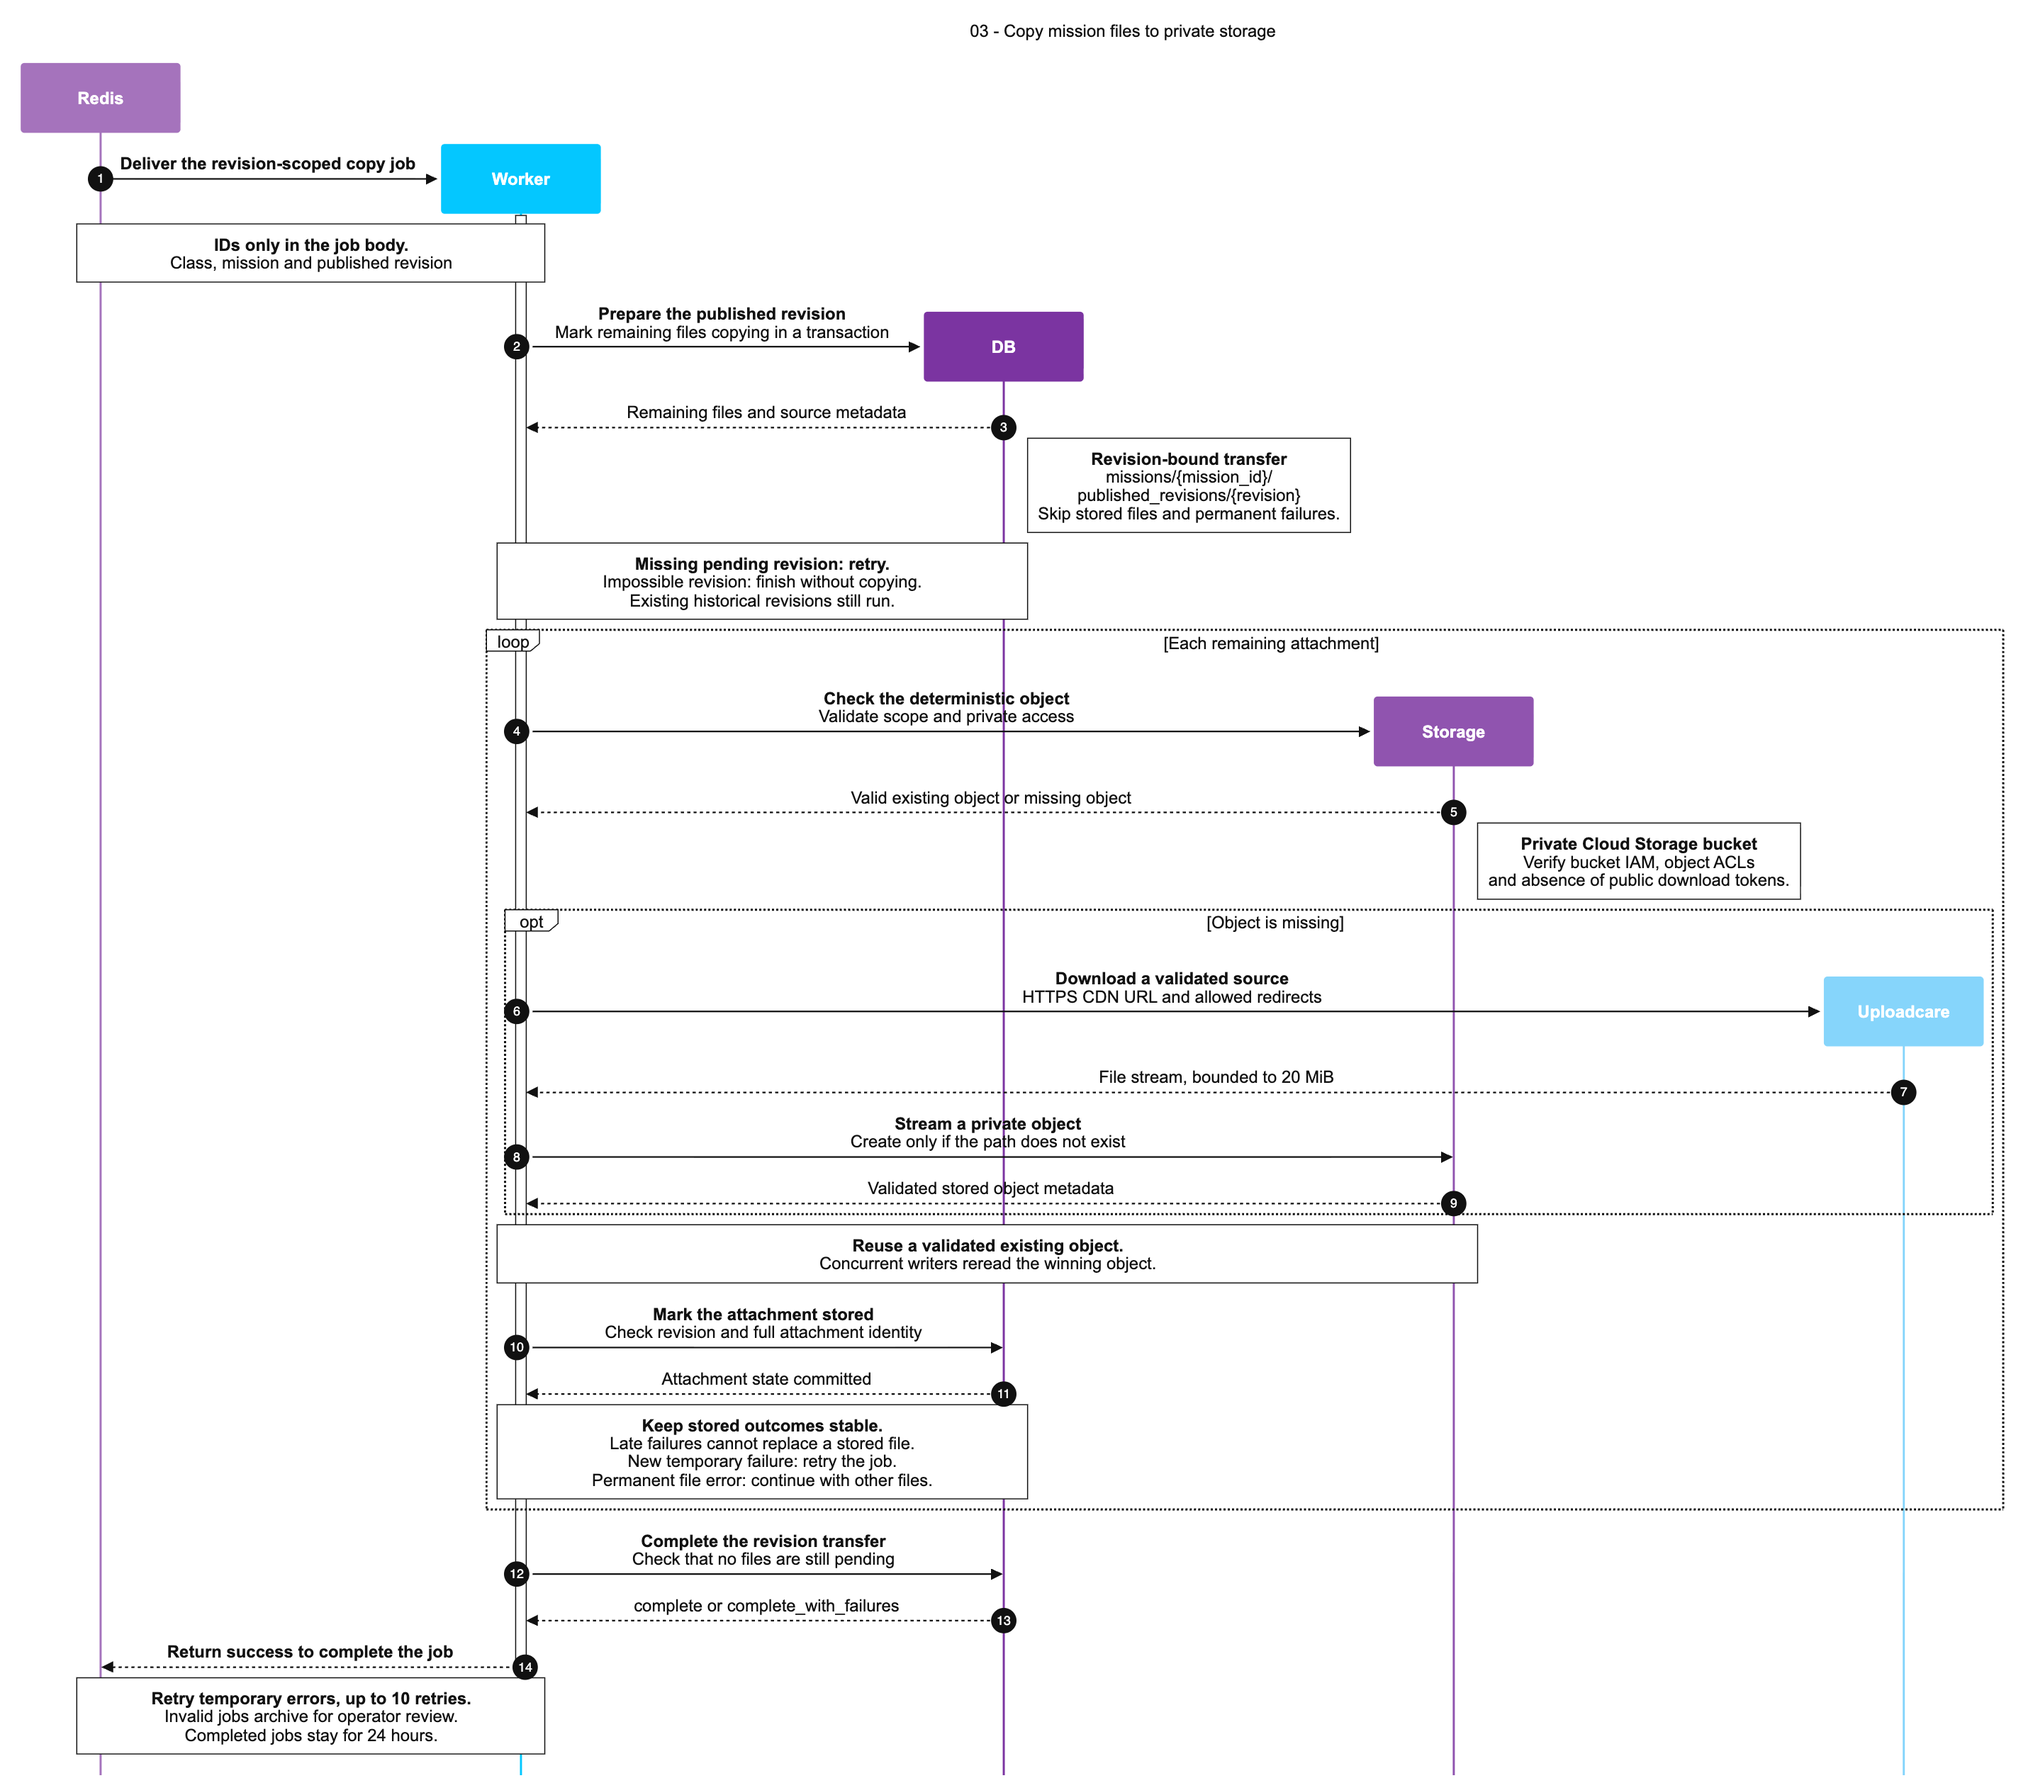
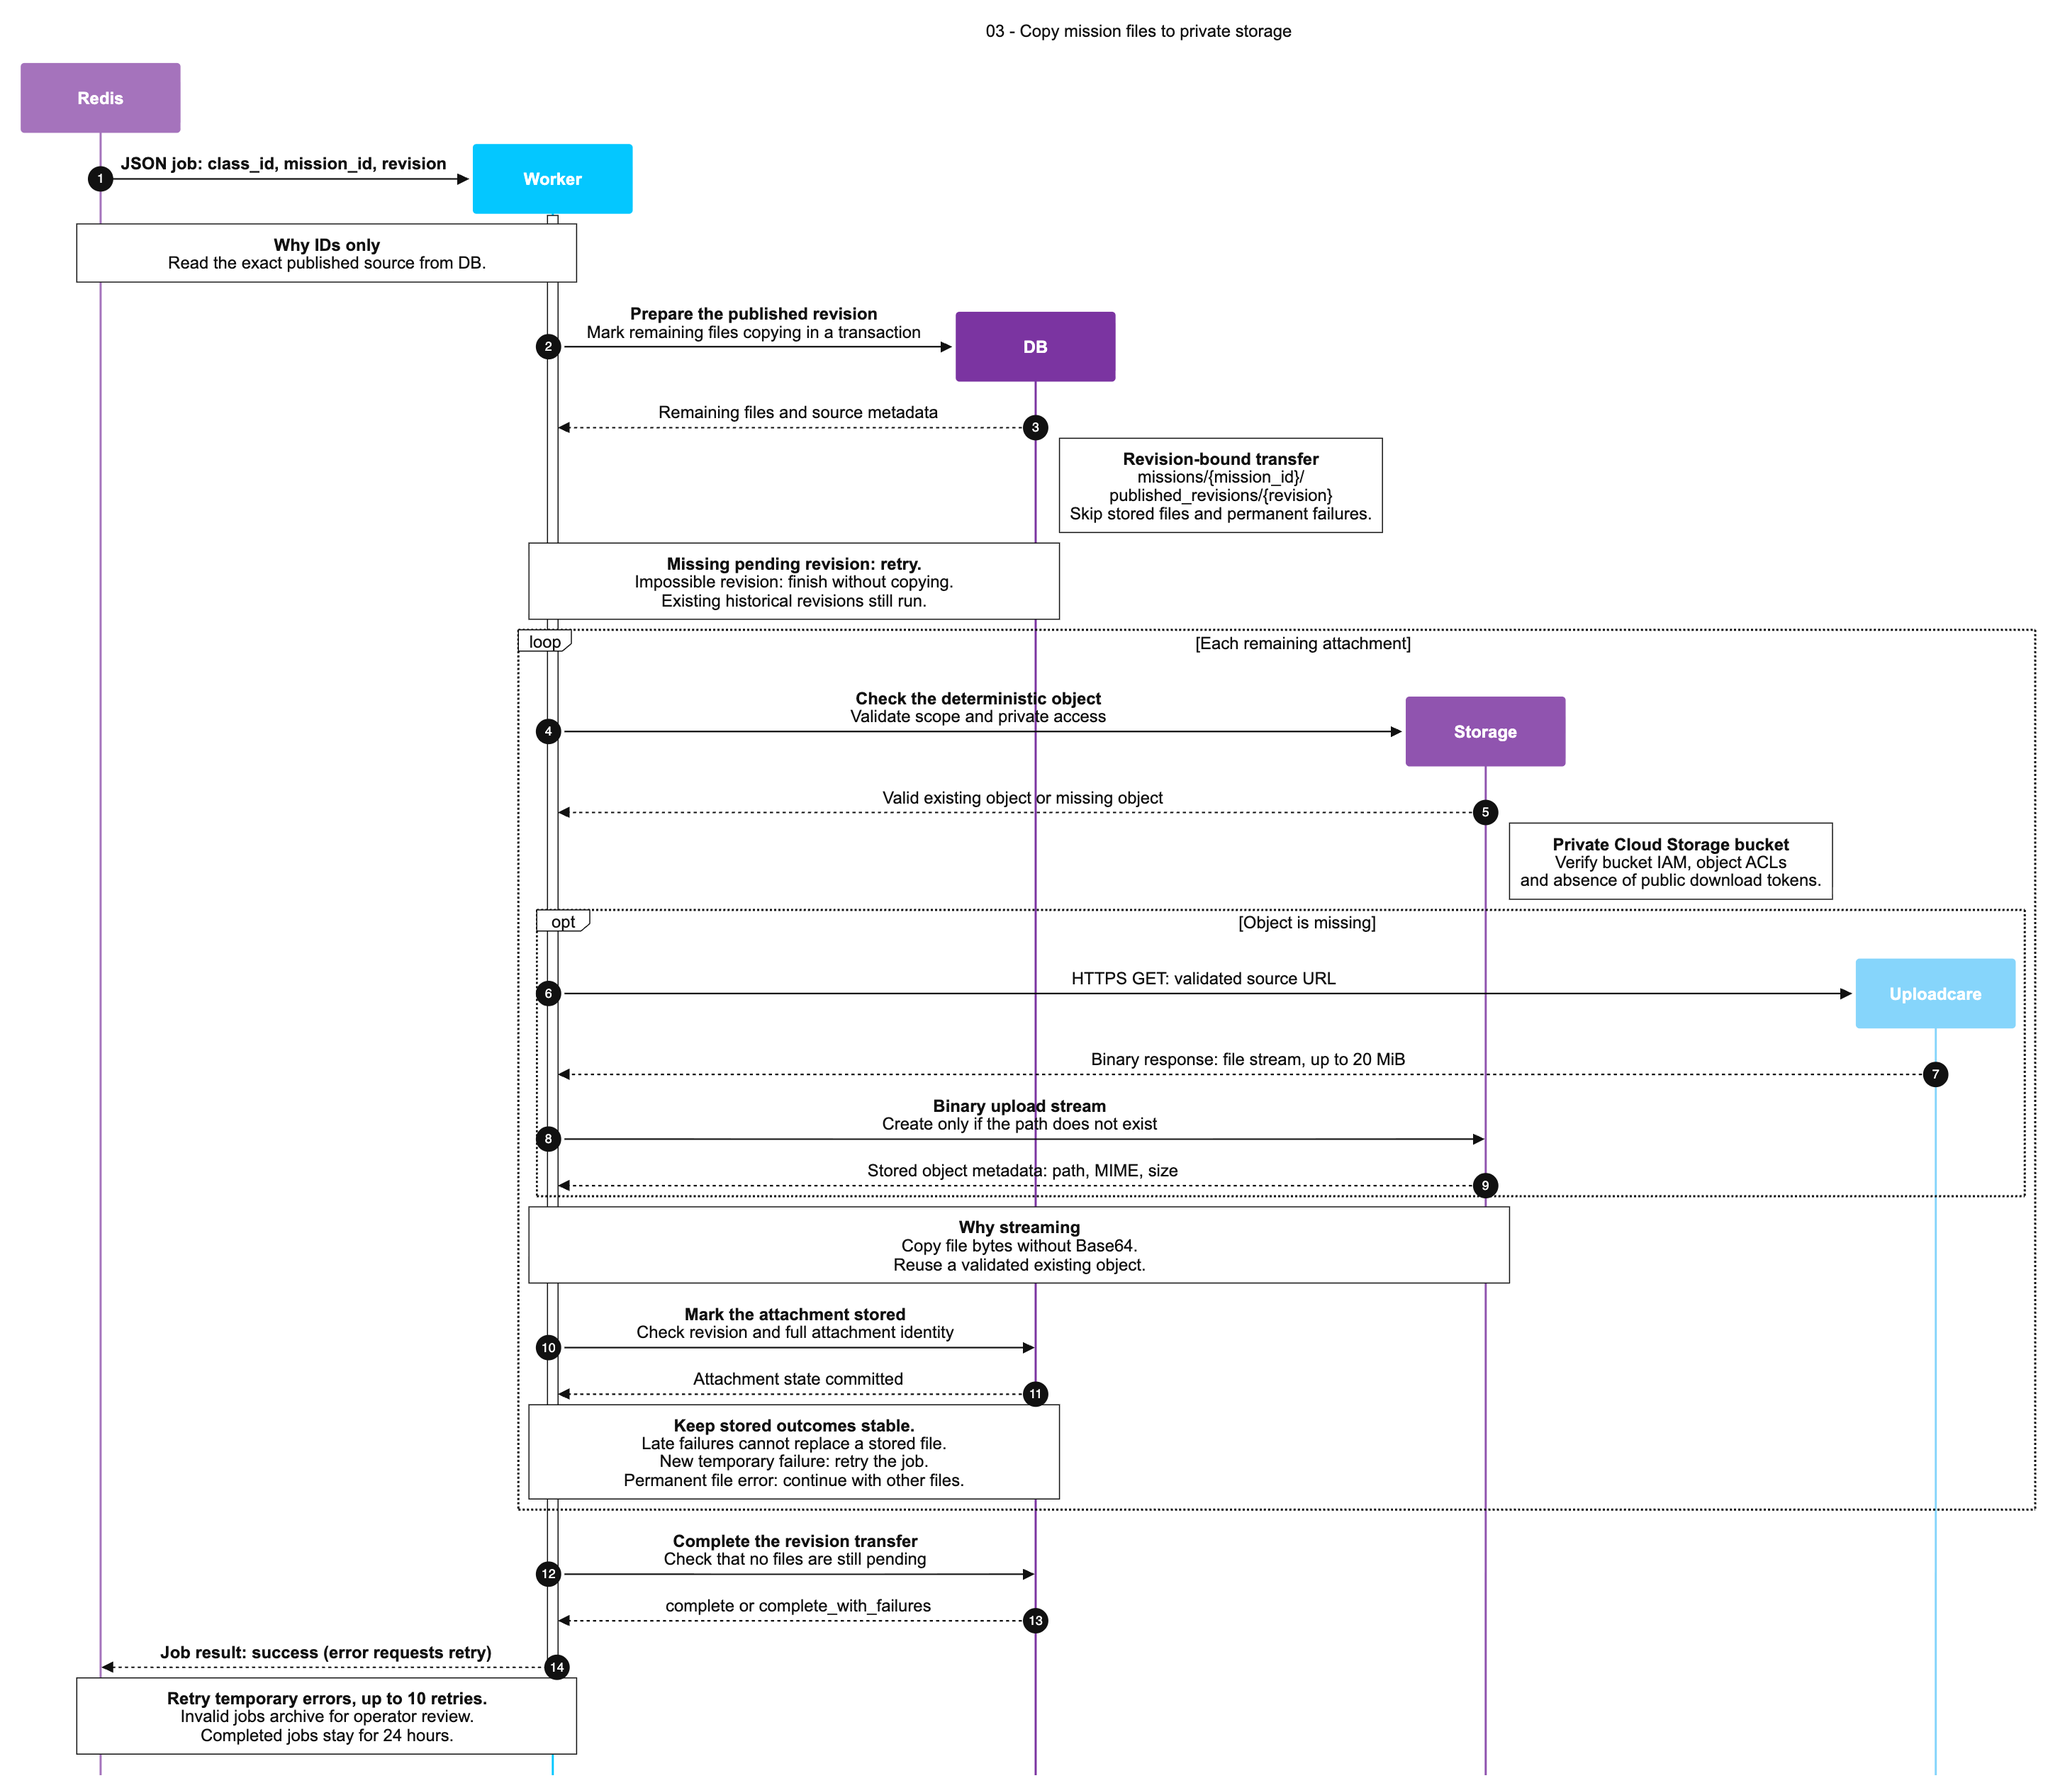
docs: explain request and response formats in mission steps

diff --git a/assets/diagrams/steps/01-mission-draft/README.md b/assets/diagrams/steps/01-mission-draft/README.md
@@ -2,6 +2,15 @@
 
 [Open the full PNG](diagram.png) · [Mermaid source](SEQUENCE.txt)
 
+## Request and response
+
+| Request | Response | Why |
+| --- | --- | --- |
+| Teacher → Uploadcare: multipart file upload. | JSON: UUID, CDN URL, name, MIME, size. | Upload once; pass file references. |
+| Teacher → API: JSON goal + attachment metadata; `POST /teacher-classes/{class}/missions/preview/stream`. | SSE: JSON progress events + saved mission preview. | Show progress while the LLM works; no Base64 in this request. |
+| API → LLM: prompt + file in `inlineData` (MIME + Base64 bytes). | JSON: short attachment summary. | Carry original file bytes inside JSON. |
+| API → LLM: goal + attachment summaries in the prompt. | JSON: questions, answers, explanations, stages. | Generate the draft without sending the full file again. |
+
 The teacher uploads **optional material** to Uploadcare. The API **checks access**, downloads supported files, requests short LLM summaries, generates the mission, and **saves the draft in Firestore**. **Action 13** returns the preview for teacher review.
 
 All participants use normal boxes, white labels, and a blue-to-purple palette on a white background. Boxes appear at first use. The `create participant` commands control this static layout; the services already exist. **Without attachments**, the API skips file summaries and still generates a draft.

diff --git a/assets/diagrams/steps/05-learning-memory/README.md b/assets/diagrams/steps/05-learning-memory/README.md
@@ -2,6 +2,14 @@
 
 [Open the full PNG](diagram.png) · [Mermaid source](SEQUENCE.txt)
 
+## Request and response
+
+| Request | Response | Why |
+| --- | --- | --- |
+| Student → API: JSON `status: completed`, snapshot + attempt scope; `POST /users/student-learning`. | JSON `attempt` with confirmed status and resume state. | Show the reward after server confirmation, before AI insights are ready. |
+| API → Redis → Worker: JSON student/attempt IDs + expected versions and dispatch generation. | Job success or retryable error. | Finalize saved evidence asynchronously; no PDF or answer log in the job. |
+| Worker → LLM: bounded events, progress and previous memory in the prompt. | JSON: private trace, strengths, needs and next adaptation. | Build compact memory from observed work; keep it server-side. |
+
 After [step 04](../04-quiz-play/README.md), the browser flushes pending tutor evidence and requests completion. The API confirms completion from **server-recorded accepted answers**. A finalizer then builds a private learning trace and replaces eligible student memory with a **compact summary**. Action 15 completes the queued delivery.
 
 ## Completion and readiness

diff --git a/assets/diagrams/steps/06-class-insights/README.md b/assets/diagrams/steps/06-class-insights/README.md
@@ -2,6 +2,14 @@
 
 [Open the full PNG](diagram.png) · [Mermaid source](SEQUENCE.txt)
 
+## Request and response
+
+| Request | Response | Why |
+| --- | --- | --- |
+| Redis → Worker: JSON class ID + source/dispatch generations. | Job success or retryable error. | Refresh only the intended evidence version. |
+| Worker → LLM: up to 100 finalized student evidence records in the prompt. | JSON: strength/need clusters + next adaptation. | Summarize class evidence without resending files or full histories. |
+| Teacher → API: authenticated `GET /dashboard/overview/page?class_id=…&cursor=…`. | JSON: visible-page students, progress, insights and next cursor. | Refresh the authorized page; summary changes only trigger a new read. |
+
 After [step 05](../05-learning-memory/README.md), a durable class-refresh intent identifies the evidence generation to summarize. The worker builds **bounded class memory** and saves it only while its owner, lease, tenant, and source generation still match. The summary change invalidates the open teacher dashboard. Action 15 returns the authorized overview for the visible student page.
 
 ## Refresh and memory bounds

diff --git a/assets/diagrams/steps/04-quiz-play/README.md b/assets/diagrams/steps/04-quiz-play/README.md
@@ -2,6 +2,14 @@
 
 [Open the full PNG](diagram.png) · [Mermaid source](SEQUENCE.txt)
 
+## Request and response
+
+| Request | Response | Why |
+| --- | --- | --- |
+| Student → API: JSON `event_id`, question, response, attempt + revision; `POST /users/student-tutor-turn`. | JSON `turn`: Mia message, steps and next action. | Keep retries stable and return only student-safe feedback. |
+| API → LLM: pinned question + response + bounded memory and knowledge chunks in the prompt. | JSON: structured tutor feedback. | Ground feedback in recorded context; do not resend the PDF. |
+| Student → API: JSON snapshot + attempt scope; `POST /users/student-learning`. | JSON `attempt`: accepted progress + checkpoint. | Resume safely; the server checks recorded answers. |
+
 The student saves an answer locally before sending it to the API. Mia uses the **pinned question and bounded learning context** to give feedback. The API saves authoritative evidence before replying. The browser then flushes pending evidence and saves the next checkpoint. Action 14 returns accepted progress for resume.
 
 ## Before the first turn

diff --git a/assets/diagrams/steps/02-mission-publication/README.md b/assets/diagrams/steps/02-mission-publication/README.md
@@ -2,6 +2,13 @@
 
 [Open the full PNG](diagram.png) · [Mermaid source](SEQUENCE.txt)
 
+## Request and response
+
+| Request | Response | Why |
+| --- | --- | --- |
+| Teacher → API: JSON `expected_draft_revision` + optional edits; `POST /teacher-classes/{class}/missions/{mission}/approve`. | JSON: published mission + `published_revision`. | Publish the reviewed version; reject stale edits. |
+| API → Redis: JSON `class_id`, `mission_id`, `revision`. | Enqueue accepted or error. | Queue a reference to the revision; keep file bytes outside Redis. |
+
 Start with the saved preview from [step 01](../01-mission-draft/README.md). The teacher reviews it and sends `expected_draft_revision` with optional edits. The API checks access and content policy, prepares any file-copy job, and publishes through a Firestore transaction. The result is a published revision; file copies may still be pending.
 
 ## Important boundaries

diff --git a/assets/diagrams/steps/03-attachment-transfer/README.md b/assets/diagrams/steps/03-attachment-transfer/README.md
@@ -2,6 +2,13 @@
 
 [Open the full PNG](diagram.png) · [Mermaid source](SEQUENCE.txt)
 
+## Request and response
+
+| Request | Response | Why |
+| --- | --- | --- |
+| Redis → Worker: JSON `class_id`, `mission_id`, `revision`. | Job success or retryable error. | Load the exact published sources from Firestore. |
+| Worker → Uploadcare: HTTPS GET; Worker → Storage: binary stream. | File bytes, then stored object path, MIME and size. | Copy the file without Base64; persist private storage metadata. |
+
 Start with the copy job from [step 02](../02-mission-publication/README.md). The **Worker** runs the Asynq attachment processor. It loads source metadata from the published DB snapshot, copies remaining files from Uploadcare to **private Cloud Storage**, and saves each outcome. Action 14 completes the queue job; individual files may have permanent failures.
 
 ## Retry and failure rules

diff --git a/assets/diagrams/steps/README.md b/assets/diagrams/steps/README.md
@@ -2,7 +2,7 @@
 
 Each numbered step folder owns its `README.md`, `SEQUENCE.txt`, and one `diagram.png`.
 
-Read the steps in order. **Starts with** shows who begins each flow. Select a diagram to open the full PNG. Add a row when a new step is ready.
+Read the steps in order. **Starts with** shows who begins each flow. Select a diagram to open the full PNG. Add a row when a new step is ready. Each guide starts with a short **request / response / why** table. Browser API calls use a Firebase bearer token. File bytes reach the LLM only during attachment reading; later steps send text context.
 
 | Step | Starts with | Flow | Diagram |
 |:---:|---|---|:---:|
